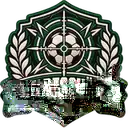
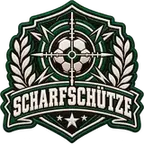
Improve badge collection states
* Remove badges from rules page

* Show locked badges in grayscale

* Replace broken Scharfschuetze badge asset

diff --git a/app/regeln/page.tsx b/app/regeln/page.tsx
@@ -1,4 +1,3 @@
-import Image from "next/image";
 import { Navigation } from "@/components/navigation";
 import { AppHeader } from "@/components/app-header";
 import { AppShell } from "@/components/app-shell";
@@ -18,21 +17,10 @@ const tipRules = [
   ["🏆", "Die gesammelten Punkte aller Spiele werden für die Gesamtrangliste zusammengezählt."],
 ];
 
-const badges = [
-  ["Volltreffer", "Erstes exakt richtig getipptes Resultat", "/badges/volltreffer.webp"],
-  ["Scharfschütze", "5 exakte Resultate richtig tippen", "/badges/scharfschuetze.webp"],
-  ["Heisse Serie", "Bei 3 gewerteten Spielen in Folge punkten", "/badges/heisse-serie.webp"],
-  ["Dauerbrenner", "10 Spiele tippen", "/badges/dauerbrenner.webp"],
-  ["Stammkurve", "25 Spiele tippen", "/badges/stammkurve.webp"],
-  ["Leader", "Mindestens einmal Platz 1 der Gesamtrangliste erreichen", "/badges/leader.webp"],
-  ["Perfekter Spieltag", "7 Punkte in einem Spiel holen", "/badges/perfekter-spieltag.webp"],
-  ["Saisonfighter", "Am Saisonende jedes Spiel getippt haben", "/badges/saisonfighter.webp"],
-];
-
 export default function RegelnPage() {
   return (
     <AppShell>
-      <AppHeader subtitle="Regeln, Punkte, Preise & Abzeichen" />
+      <AppHeader subtitle="Regeln, Punkte & Preise" />
       <Navigation />
 
       <section className="bg-white text-black rounded-3xl p-5 sm:p-7 mb-6 shadow-2xl">
@@ -100,7 +88,7 @@ export default function RegelnPage() {
         </div>
       </section>
 
-      <section className="bg-white text-black rounded-3xl p-5 sm:p-7 mb-6 shadow-2xl">
+      <section className="bg-white text-black rounded-3xl p-5 sm:p-7 shadow-2xl">
         <div>
           <h2 className="text-2xl sm:text-3xl font-black">Preis</h2>
           <p className="text-gray-500 text-sm mt-1">Der Sieger der Saison gewinnt</p>
@@ -110,28 +98,6 @@ export default function RegelnPage() {
           <p className="text-gray-700 mt-2">
             Der Gewinner bezahlt in der nächsten Saison keine Getränke im Stadion und erhält optional ein Trikot der neuen Saison nach Wahl.
           </p>
-        </div>
-      </section>
-
-      <section className="bg-white text-black rounded-3xl p-5 sm:p-7 shadow-2xl">
-        <div className="mb-6">
-          <p className="text-xs uppercase tracking-[0.2em] text-green-700 font-black">Sammlung</p>
-          <h2 className="text-2xl sm:text-3xl font-black mt-1">Abzeichen</h2>
-          <p className="text-gray-500 text-sm mt-2 max-w-2xl">
-            Diese Patches werden automatisch freigeschaltet, sobald du die jeweilige Bedingung erfüllst. Verdiente Abzeichen bleiben dauerhaft in deiner Sammlung.
-          </p>
-        </div>
-
-        <div className="grid grid-cols-2 lg:grid-cols-4 gap-4">
-          {badges.map(([name, task, image]) => (
-            <article key={name} className="rounded-2xl border border-gray-200 bg-gradient-to-b from-gray-50 to-white p-3 sm:p-4 text-center shadow-sm">
-              <div className="flex justify-center">
-                <Image src={image} alt={`Abzeichen ${name}`} width={180} height={180} className="w-32 h-32 sm:w-36 sm:h-36 object-contain" />
-              </div>
-              <h3 className="font-black text-base sm:text-lg mt-2">{name}</h3>
-              <p className="text-xs sm:text-sm text-gray-500 mt-1 leading-relaxed">{task}</p>
-            </article>
-          ))}
         </div>
       </section>
     </AppShell>

diff --git a/app/rangliste/page.tsx b/app/rangliste/page.tsx
@@ -48,7 +48,7 @@ async function Ranking() {
 
   const unlockedRows = user ? await syncBadgesForUser(user.id) : [];
   const unlockedMap = new Map(unlockedRows.map((row) => [row.badge_key, row.unlocked_at]));
-  const unlockedBadges = BADGES.filter((badge) => unlockedMap.has(badge.key));
+  const unlockedCount = BADGES.filter((badge) => unlockedMap.has(badge.key)).length;
 
   return (
     <div className="space-y-6">
@@ -121,22 +121,46 @@ async function Ranking() {
           <div className="mb-5">
             <h2 className="text-2xl sm:text-3xl font-black">Deine Abzeichen</h2>
             <p className="text-gray-500 text-sm mt-1">
-              {unlockedBadges.length} von {BADGES.length} freigeschaltet
+              {unlockedCount} von {BADGES.length} freigeschaltet
             </p>
           </div>
 
-          {unlockedBadges.length === 0 ? (
-            <p className="text-gray-500">Noch kein Abzeichen freigeschaltet. Weiter tippen!</p>
-          ) : (
-            <div className="grid grid-cols-2 sm:grid-cols-4 gap-4">
-              {unlockedBadges.map((badge) => (
-                <div key={badge.key} className="rounded-2xl bg-gray-50 border border-gray-100 p-3 text-center">
-                  <Image src={badge.image} alt={badge.name} width={180} height={180} className="w-full h-auto" />
-                  <p className="font-black mt-2">{badge.name}</p>
+          <div className="grid grid-cols-2 sm:grid-cols-4 gap-4">
+            {BADGES.map((badge) => {
+              const isUnlocked = unlockedMap.has(badge.key);
+
+              return (
+                <div
+                  key={badge.key}
+                  className={`rounded-2xl border p-3 text-center transition ${
+                    isUnlocked
+                      ? "bg-green-50 border-green-200 shadow-sm"
+                      : "bg-gray-50 border-gray-200"
+                  }`}
+                >
+                  <div className="relative">
+                    <Image
+                      src={badge.image}
+                      alt={badge.name}
+                      width={180}
+                      height={180}
+                      className={`w-full h-auto transition ${
+                        isUnlocked
+                          ? ""
+                          : "grayscale opacity-25 contrast-50"
+                      }`}
+                    />
+                  </div>
+                  <p className={`font-black mt-2 ${isUnlocked ? "text-black" : "text-gray-400"}`}>
+                    {badge.name}
+                  </p>
+                  <p className={`text-xs mt-1 font-semibold ${isUnlocked ? "text-green-700" : "text-gray-400"}`}>
+                    {isUnlocked ? "Freigeschaltet" : "Noch gesperrt"}
+                  </p>
                 </div>
-              ))}
-            </div>
-          )}
+              );
+            })}
+          </div>
         </div>
       )}
     </div>
